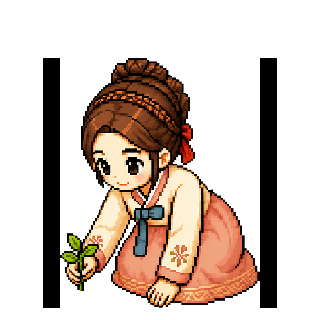
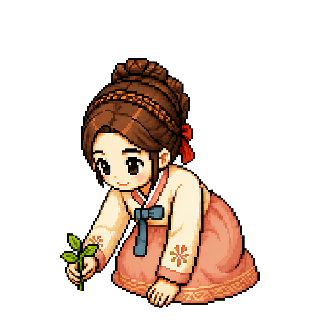
fix: remove hidden guide bars from farmwork sprites

Changed region(s): [[0.8125, 0.1562, 0.875, 0.9688], [0.125, 0.1562, 0.1875, 0.9688]]

diff --git a/src/index.html b/src/index.html
@@ -4,10 +4,10 @@
   <meta charset="utf-8">
   <meta name="viewport" content="width=device-width,initial-scale=1,viewport-fit=cover">
   <title>선화공주 만들기 — 자산 로딩 테스트</title>
-  <link rel="stylesheet" href="style.css?v=0.64.132-debug">
-  <link rel="stylesheet" href="schedule.css?v=0.64.132-debug">
+  <link rel="stylesheet" href="style.css?v=0.64.133-debug">
+  <link rel="stylesheet" href="schedule.css?v=0.64.133-debug">
   <link rel="stylesheet" href="schedule-pm2.css?v=0.64.18-debug">
-  <link rel="stylesheet" href="birthday.css?v=0.64.132-debug">
+  <link rel="stylesheet" href="birthday.css?v=0.64.133-debug">
   <link rel="stylesheet" href="prologue.css?v=0.64.18-debug">
   <link rel="stylesheet" href="rain-v2.css">
   <link rel="stylesheet" href="naming.css?v=0.64.18-debug">
@@ -48,7 +48,7 @@
       </div>
       <span class="loading-caption">이야기를 열 준비가 되었어요</span>
       <button class="studio-start-sound" id="studioStartSound" type="button">인연의 문을 열기</button>
-      <small class="loading-version" aria-label="현재 게임 버전">v0.64.132-debug</small>
+      <small class="loading-version" aria-label="현재 게임 버전">v0.64.133-debug</small>
     </section>
     <section class="prologue" id="prologue" aria-label="이야기 시작 영상" hidden>
       <audio id="prologueMusic" src="../assets/audio/music/prologue-lantern-and-dawn.mp3" preload="auto" loop></audio>
@@ -248,6 +248,6 @@
       </div>
     </section>
   </main>
-  <script src="schedule-layer-manifests.js?v=0.64.132-debug"></script><script src="story-data.js?v=0.64.18-debug"></script><script src="app.js?v=0.64.132-debug"></script>
+  <script src="schedule-layer-manifests.js?v=0.64.133-debug"></script><script src="story-data.js?v=0.64.18-debug"></script><script src="app.js?v=0.64.133-debug"></script>
 </body>
 </html>

diff --git a/src/app.js b/src/app.js
@@ -243,7 +243,7 @@ const vacationIllustrations=[
 function unifiedAgeFolder(){return '09';}
 function scheduleFramePath(file){return `../assets/characters/seonhwa/schedule-actions/${file}`;}
 function scheduleBasePath(file){return `../assets/characters/seonhwa/schedule-base/${file}`;}
-const scheduleAssetRevision='0.64.132-debug';
+const scheduleAssetRevision='0.64.133-debug';
 const scheduleQaParams=new URLSearchParams(location.search);
 const moonlightStandaloneQa=scheduleQaParams.get('qaHoliday')==='chuseok';
 const sehwaStandaloneQa=scheduleQaParams.get('qaHoliday')==='seollal';

diff --git a/CHANGELOG.md b/CHANGELOG.md
@@ -1,3 +1,7 @@
+## v0.64.133-debug · 농가 스프라이트 가이드선 제거 · 2026-08-27
+
+- 투명 영역 검수에서 발견된 좌우 검은 세로 가이드 픽셀을 제거하고 흰 배경 합성 검사까지 통과했습니다.
+
 ## v0.64.132-debug · 농가 선화 스프라이트 외곽 정돈 · 2026-08-27
 
 - 농가 일손돕기 선화 3프레임에 합성돼 있던 갈색 흙 바닥을 제거하고 실제 알파 투명 PNG로 교체했습니다.
